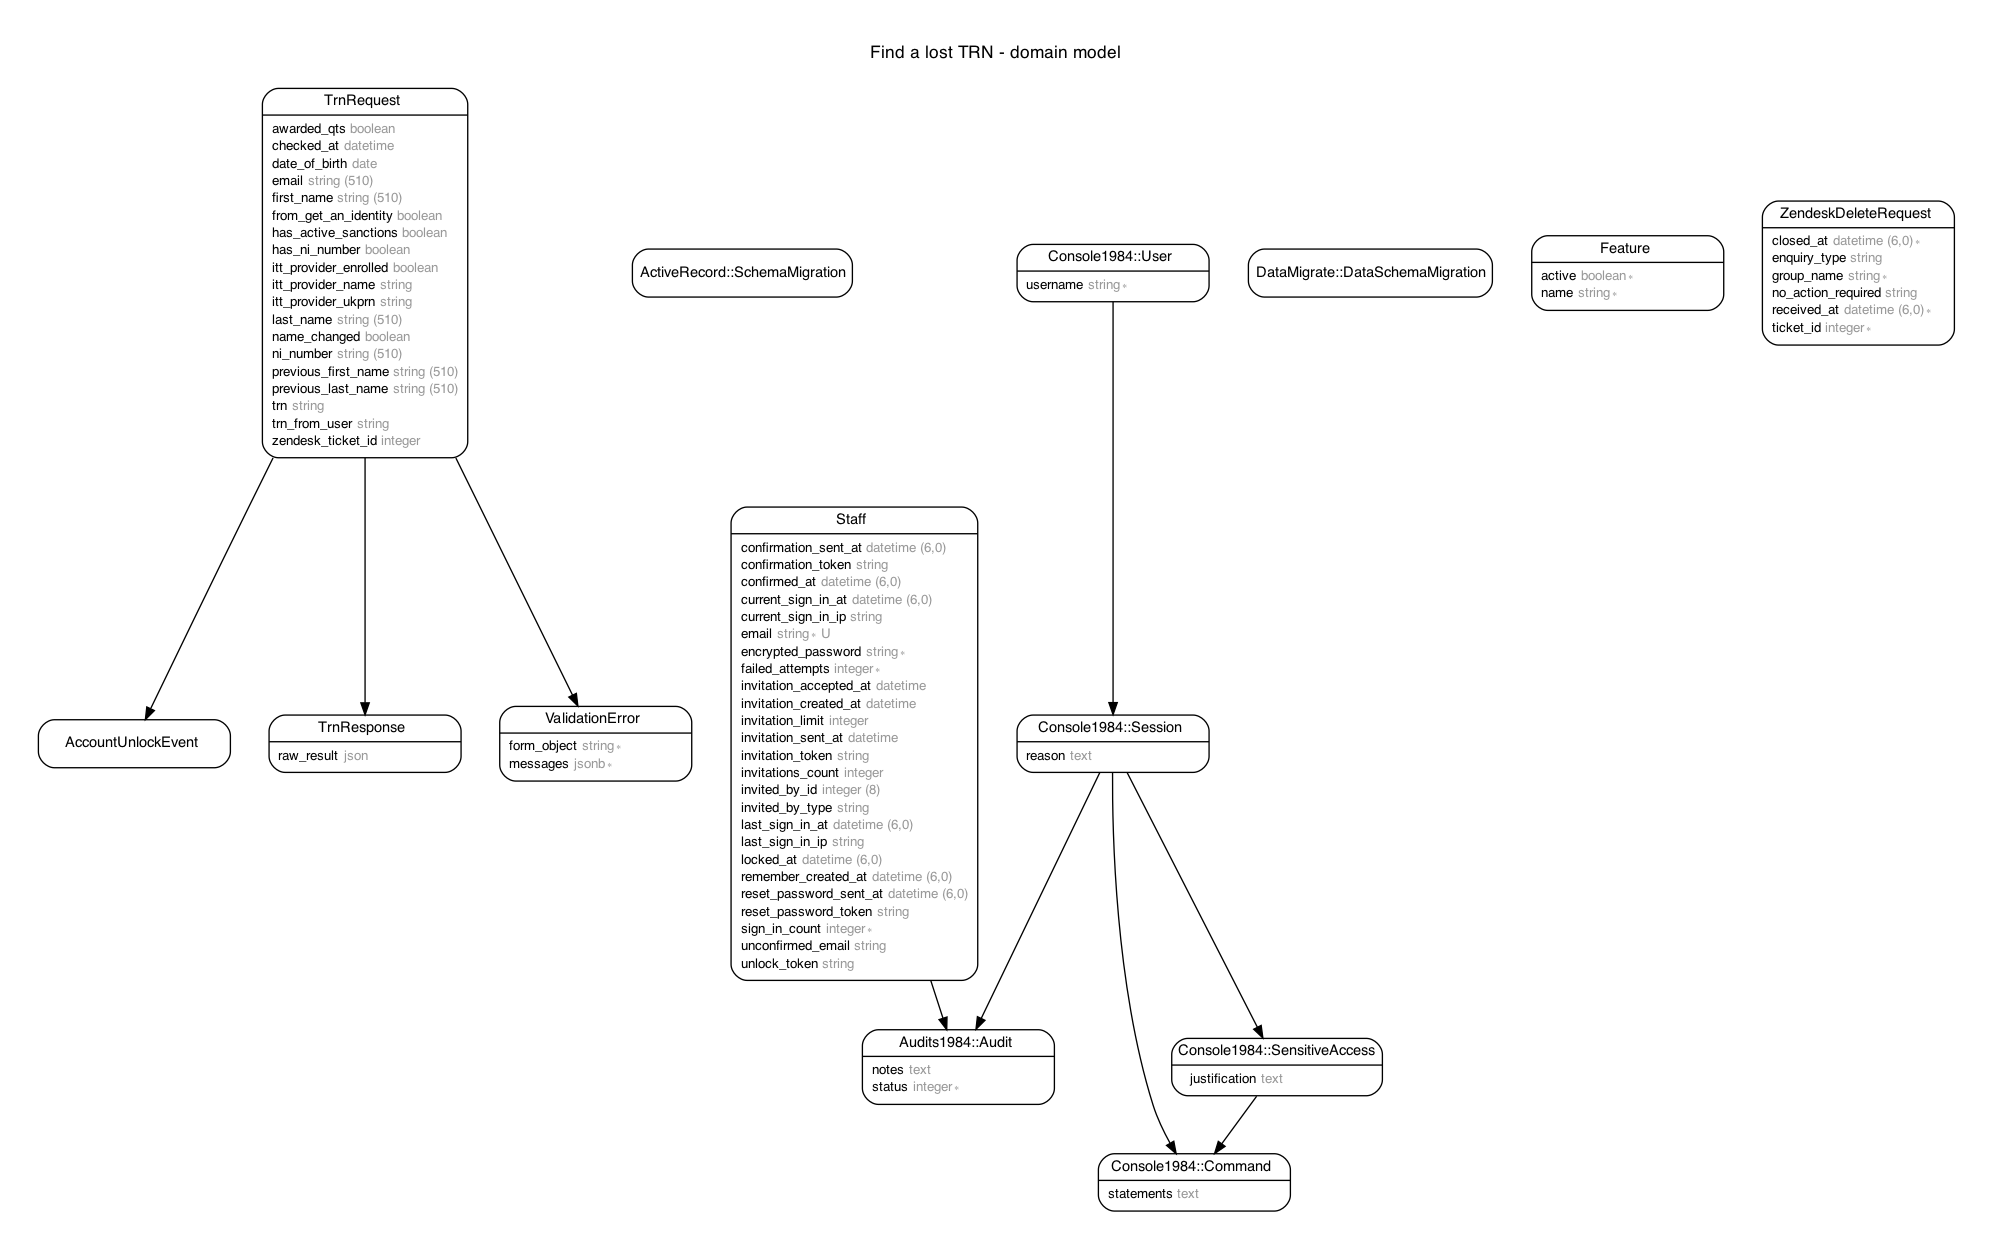
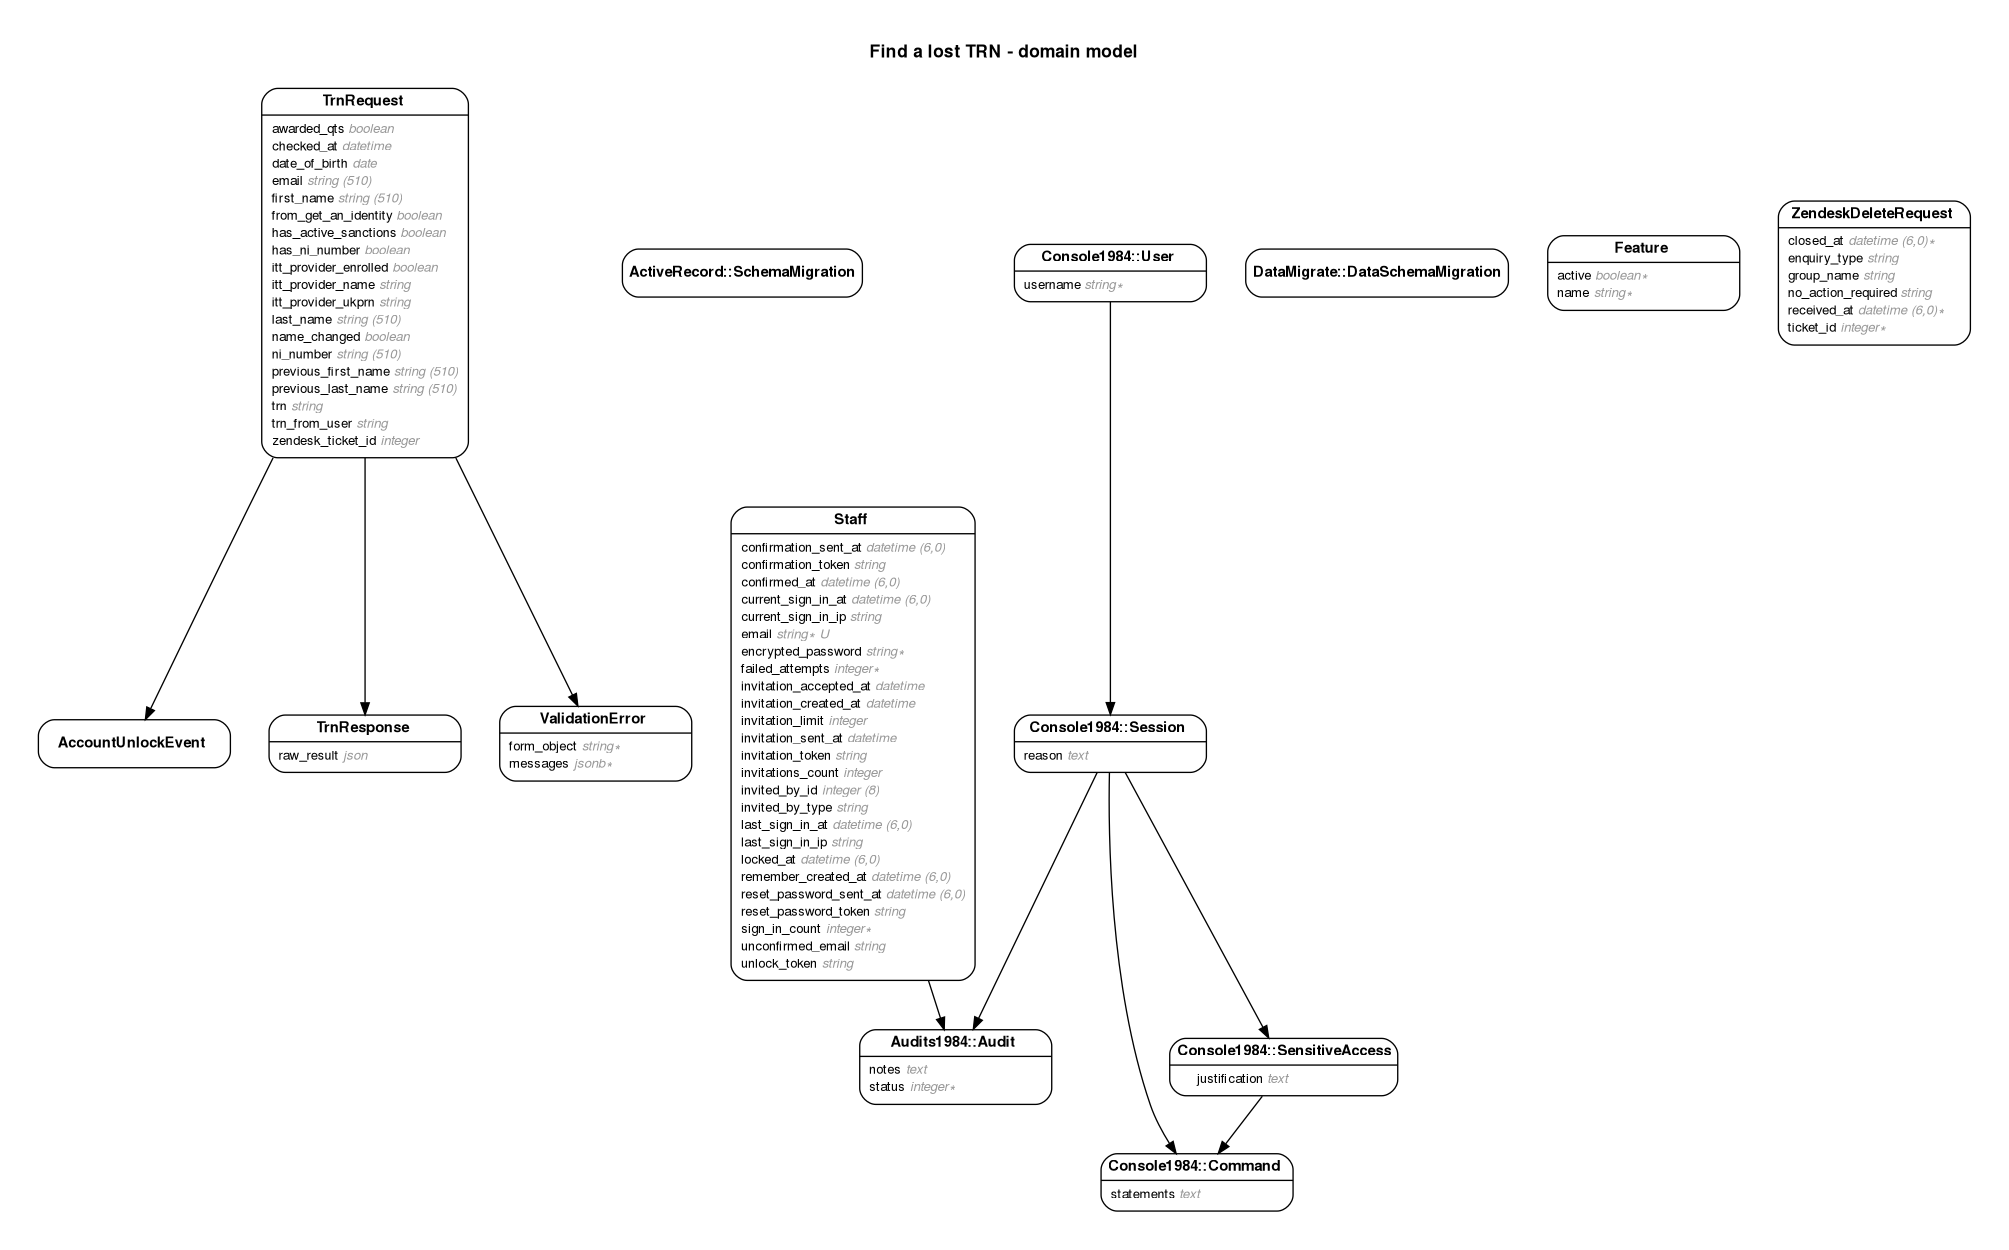
Set group_name to nullable on ZendeskDeleteRequest
Not all tickets on Zendesk have a group name, so we need to set this to
nullable in the database.

https://sentry.io/organizations/dfe-teacher-services/issues/3646638687/?project=6275068&referrer=slack

diff --git a/db/schema.rb b/db/schema.rb
@@ -10,7 +10,7 @@
 #
 # It's strongly recommended that you check this file into your version control system.
 
-ActiveRecord::Schema[7.0].define(version: 2022_09_16_130312) do
+ActiveRecord::Schema[7.0].define(version: 2022_10_11_085154) do
   # These are extensions that must be enabled in order to support this database
   enable_extension "plpgsql"
 
@@ -162,7 +162,7 @@ ActiveRecord::Schema[7.0].define(version: 2022_09_16_130312) do
     t.integer "ticket_id", null: false
     t.string "enquiry_type"
     t.string "no_action_required"
-    t.string "group_name", null: false
+    t.string "group_name"
     t.datetime "created_at", null: false
     t.datetime "updated_at", null: false
   end

diff --git a/app/models/zendesk_delete_request.rb b/app/models/zendesk_delete_request.rb
@@ -5,7 +5,7 @@
 #  id                 :bigint           not null, primary key
 #  closed_at          :datetime         not null
 #  enquiry_type       :string
-#  group_name         :string           not null
+#  group_name         :string
 #  no_action_required :string
 #  received_at        :datetime         not null
 #  created_at         :datetime         not null

diff --git a/spec/factories/zendesk_delete_requests.rb b/spec/factories/zendesk_delete_requests.rb
@@ -7,7 +7,7 @@
 #  id                 :bigint           not null, primary key
 #  closed_at          :datetime         not null
 #  enquiry_type       :string
-#  group_name         :string           not null
+#  group_name         :string
 #  no_action_required :string
 #  received_at        :datetime         not null
 #  created_at         :datetime         not null

diff --git a/spec/models/zendesk_delete_request_spec.rb b/spec/models/zendesk_delete_request_spec.rb
@@ -5,7 +5,7 @@
 #  id                 :bigint           not null, primary key
 #  closed_at          :datetime         not null
 #  enquiry_type       :string
-#  group_name         :string           not null
+#  group_name         :string
 #  no_action_required :string
 #  received_at        :datetime         not null
 #  created_at         :datetime         not null

diff --git a/db/migrate/20221011085154_change_group_name_to_null.rb b/db/migrate/20221011085154_change_group_name_to_null.rb
@@ -1,0 +1,5 @@
+class ChangeGroupNameToNull < ActiveRecord::Migration[7.0]
+  def change
+    change_column_null :zendesk_delete_requests, :group_name, true
+  end
+end
